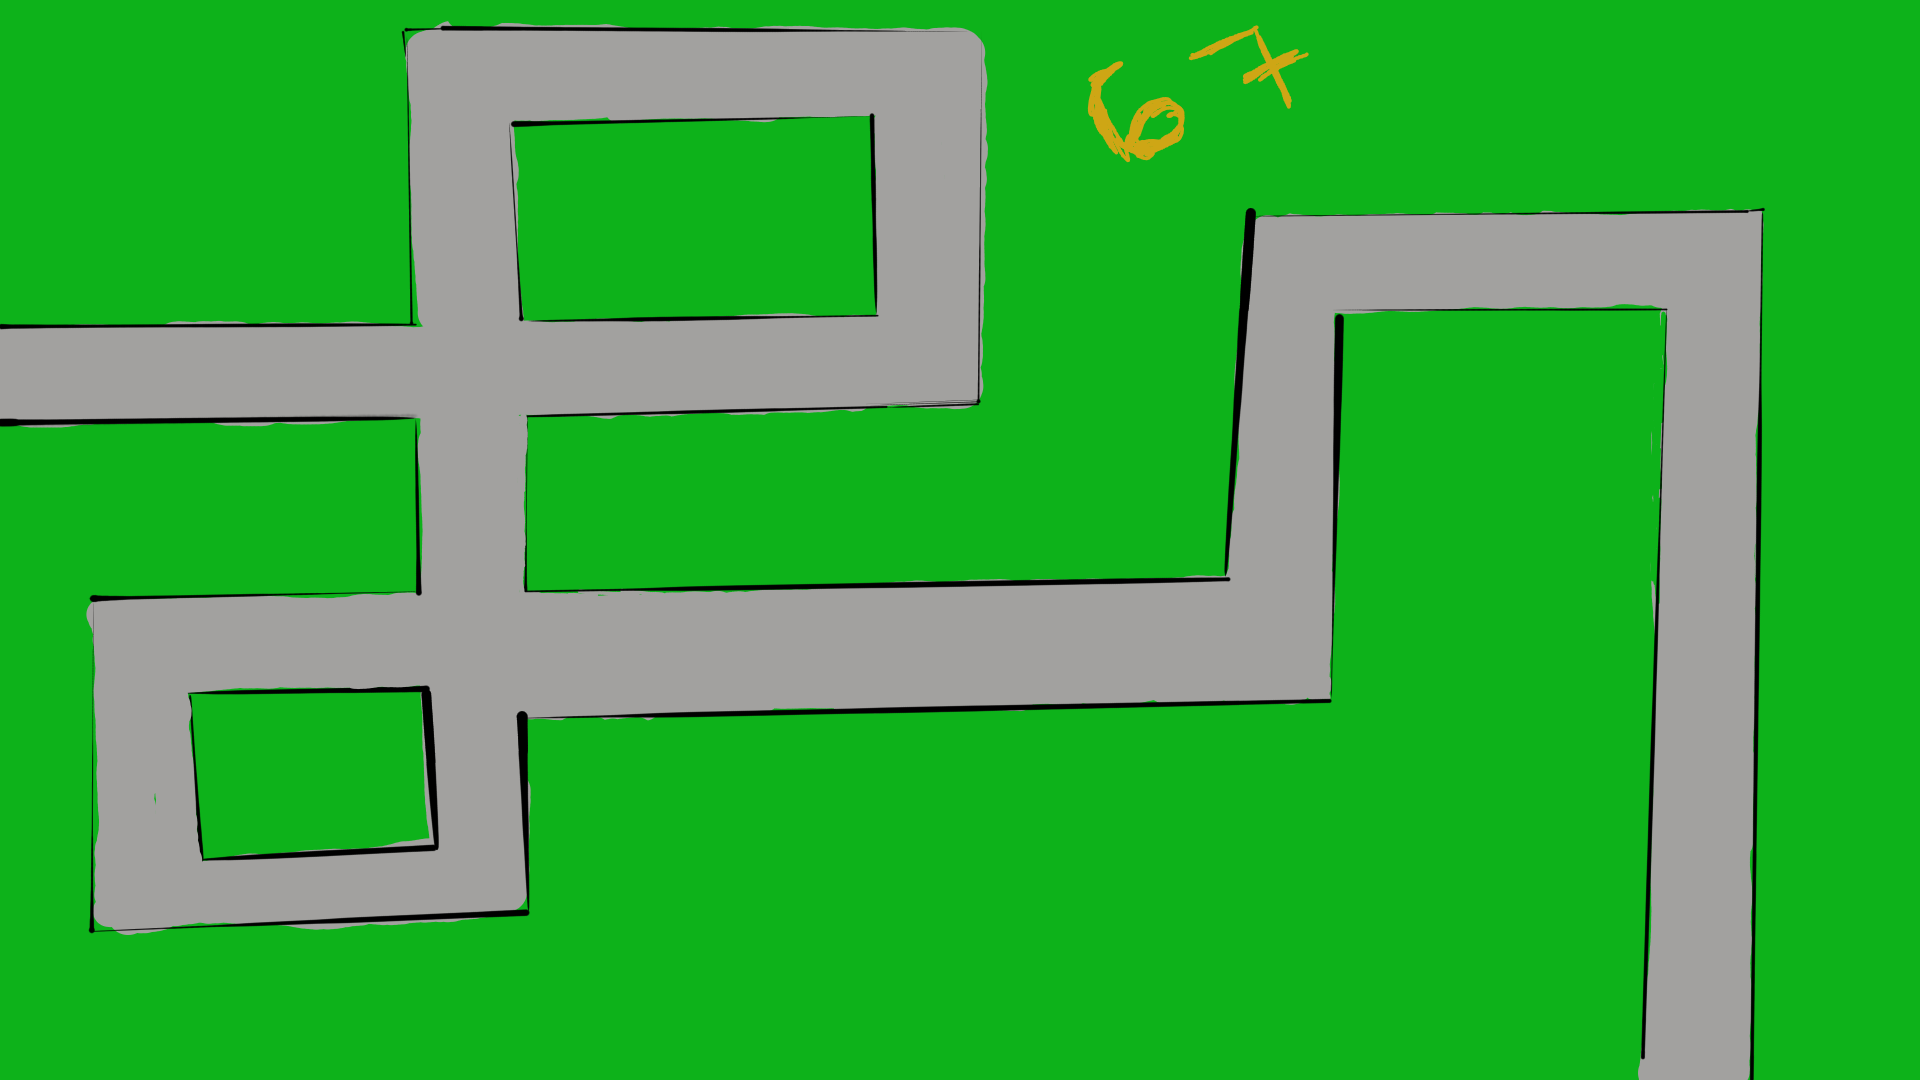
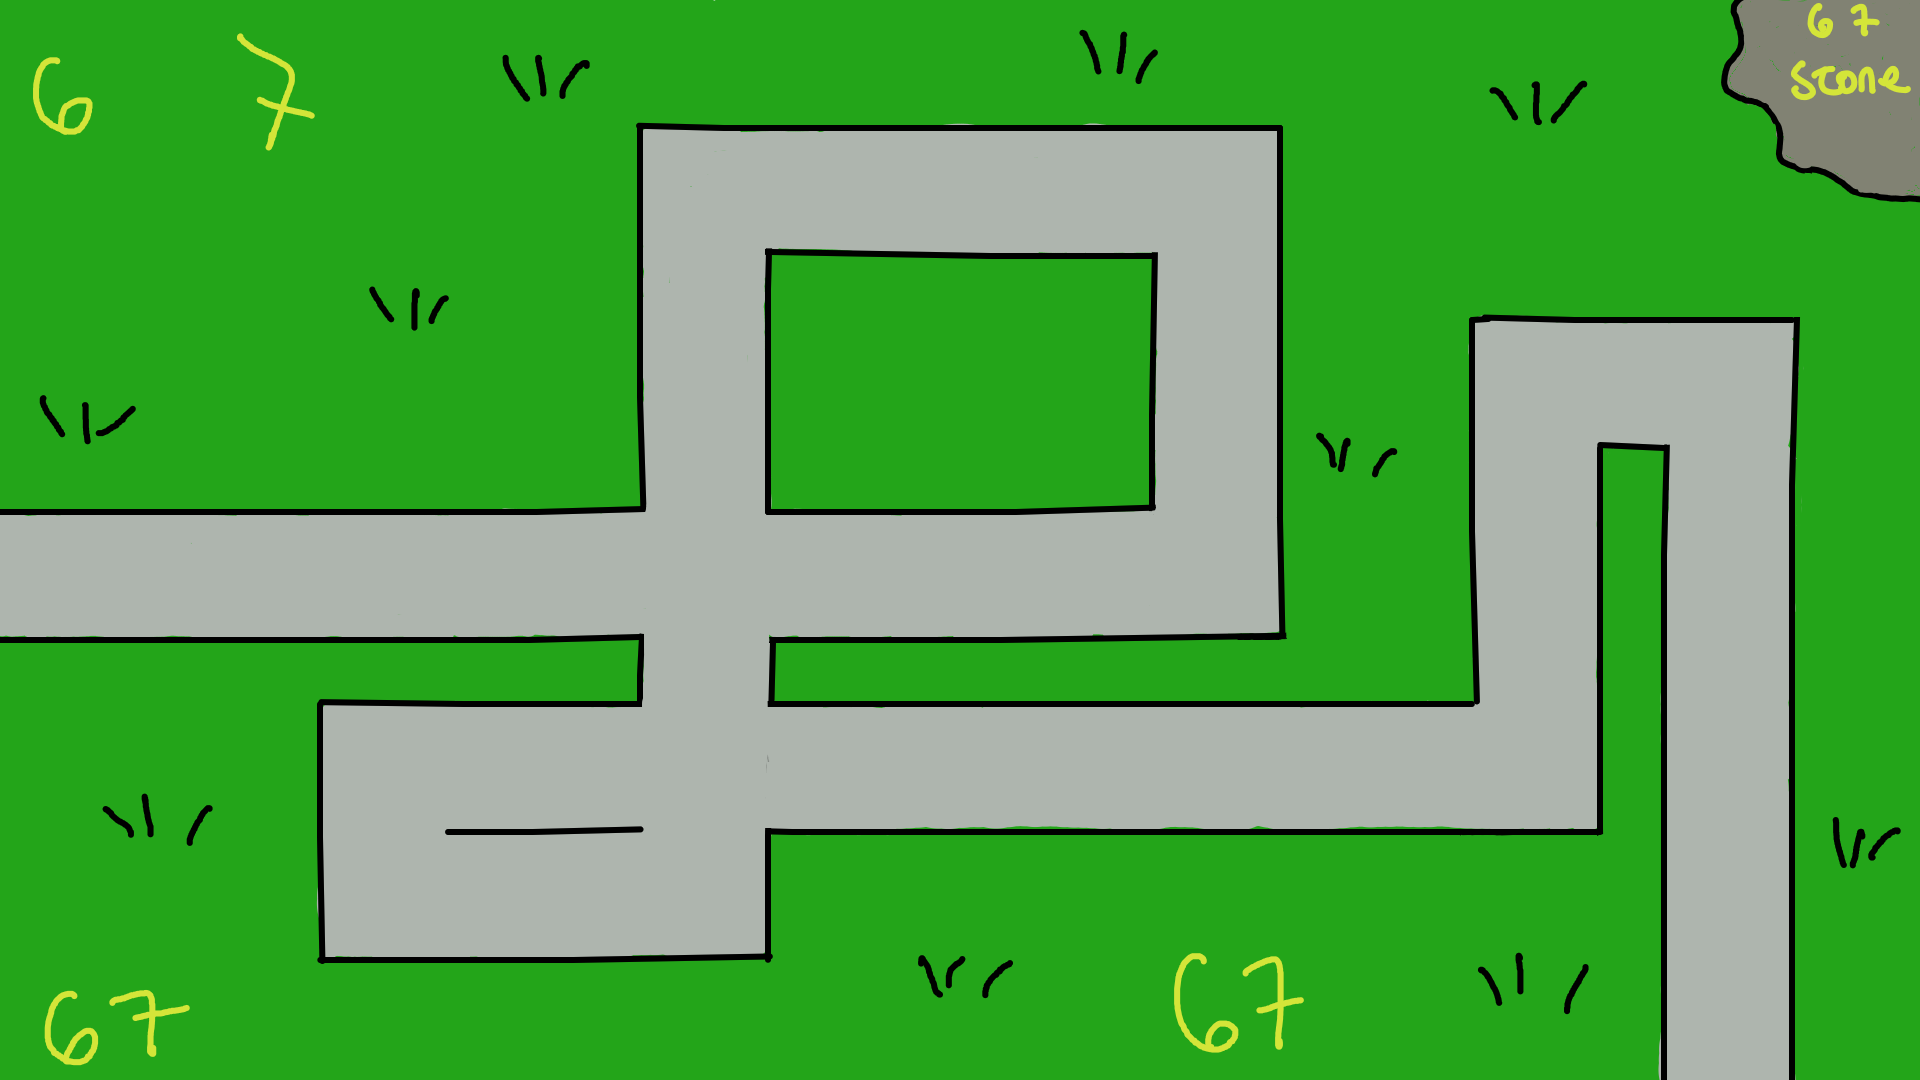
refactor: mapa 1 refeito

diff --git a/core/src/main/java/com/brainrots/engine/Map.java b/core/src/main/java/com/brainrots/engine/Map.java
@@ -27,7 +27,7 @@ public class Map {
                 break;
         }
 
-        Object pathObject = tiledMap.getLayers().get("path").getObjects().get(0);
+        Object pathObject = tiledMap.getLayers().get("Path").getObjects().get(0);
 
         if (pathObject instanceof PolylineMapObject polylineObject) {
             Polyline polyline = polylineObject.getPolyline();
